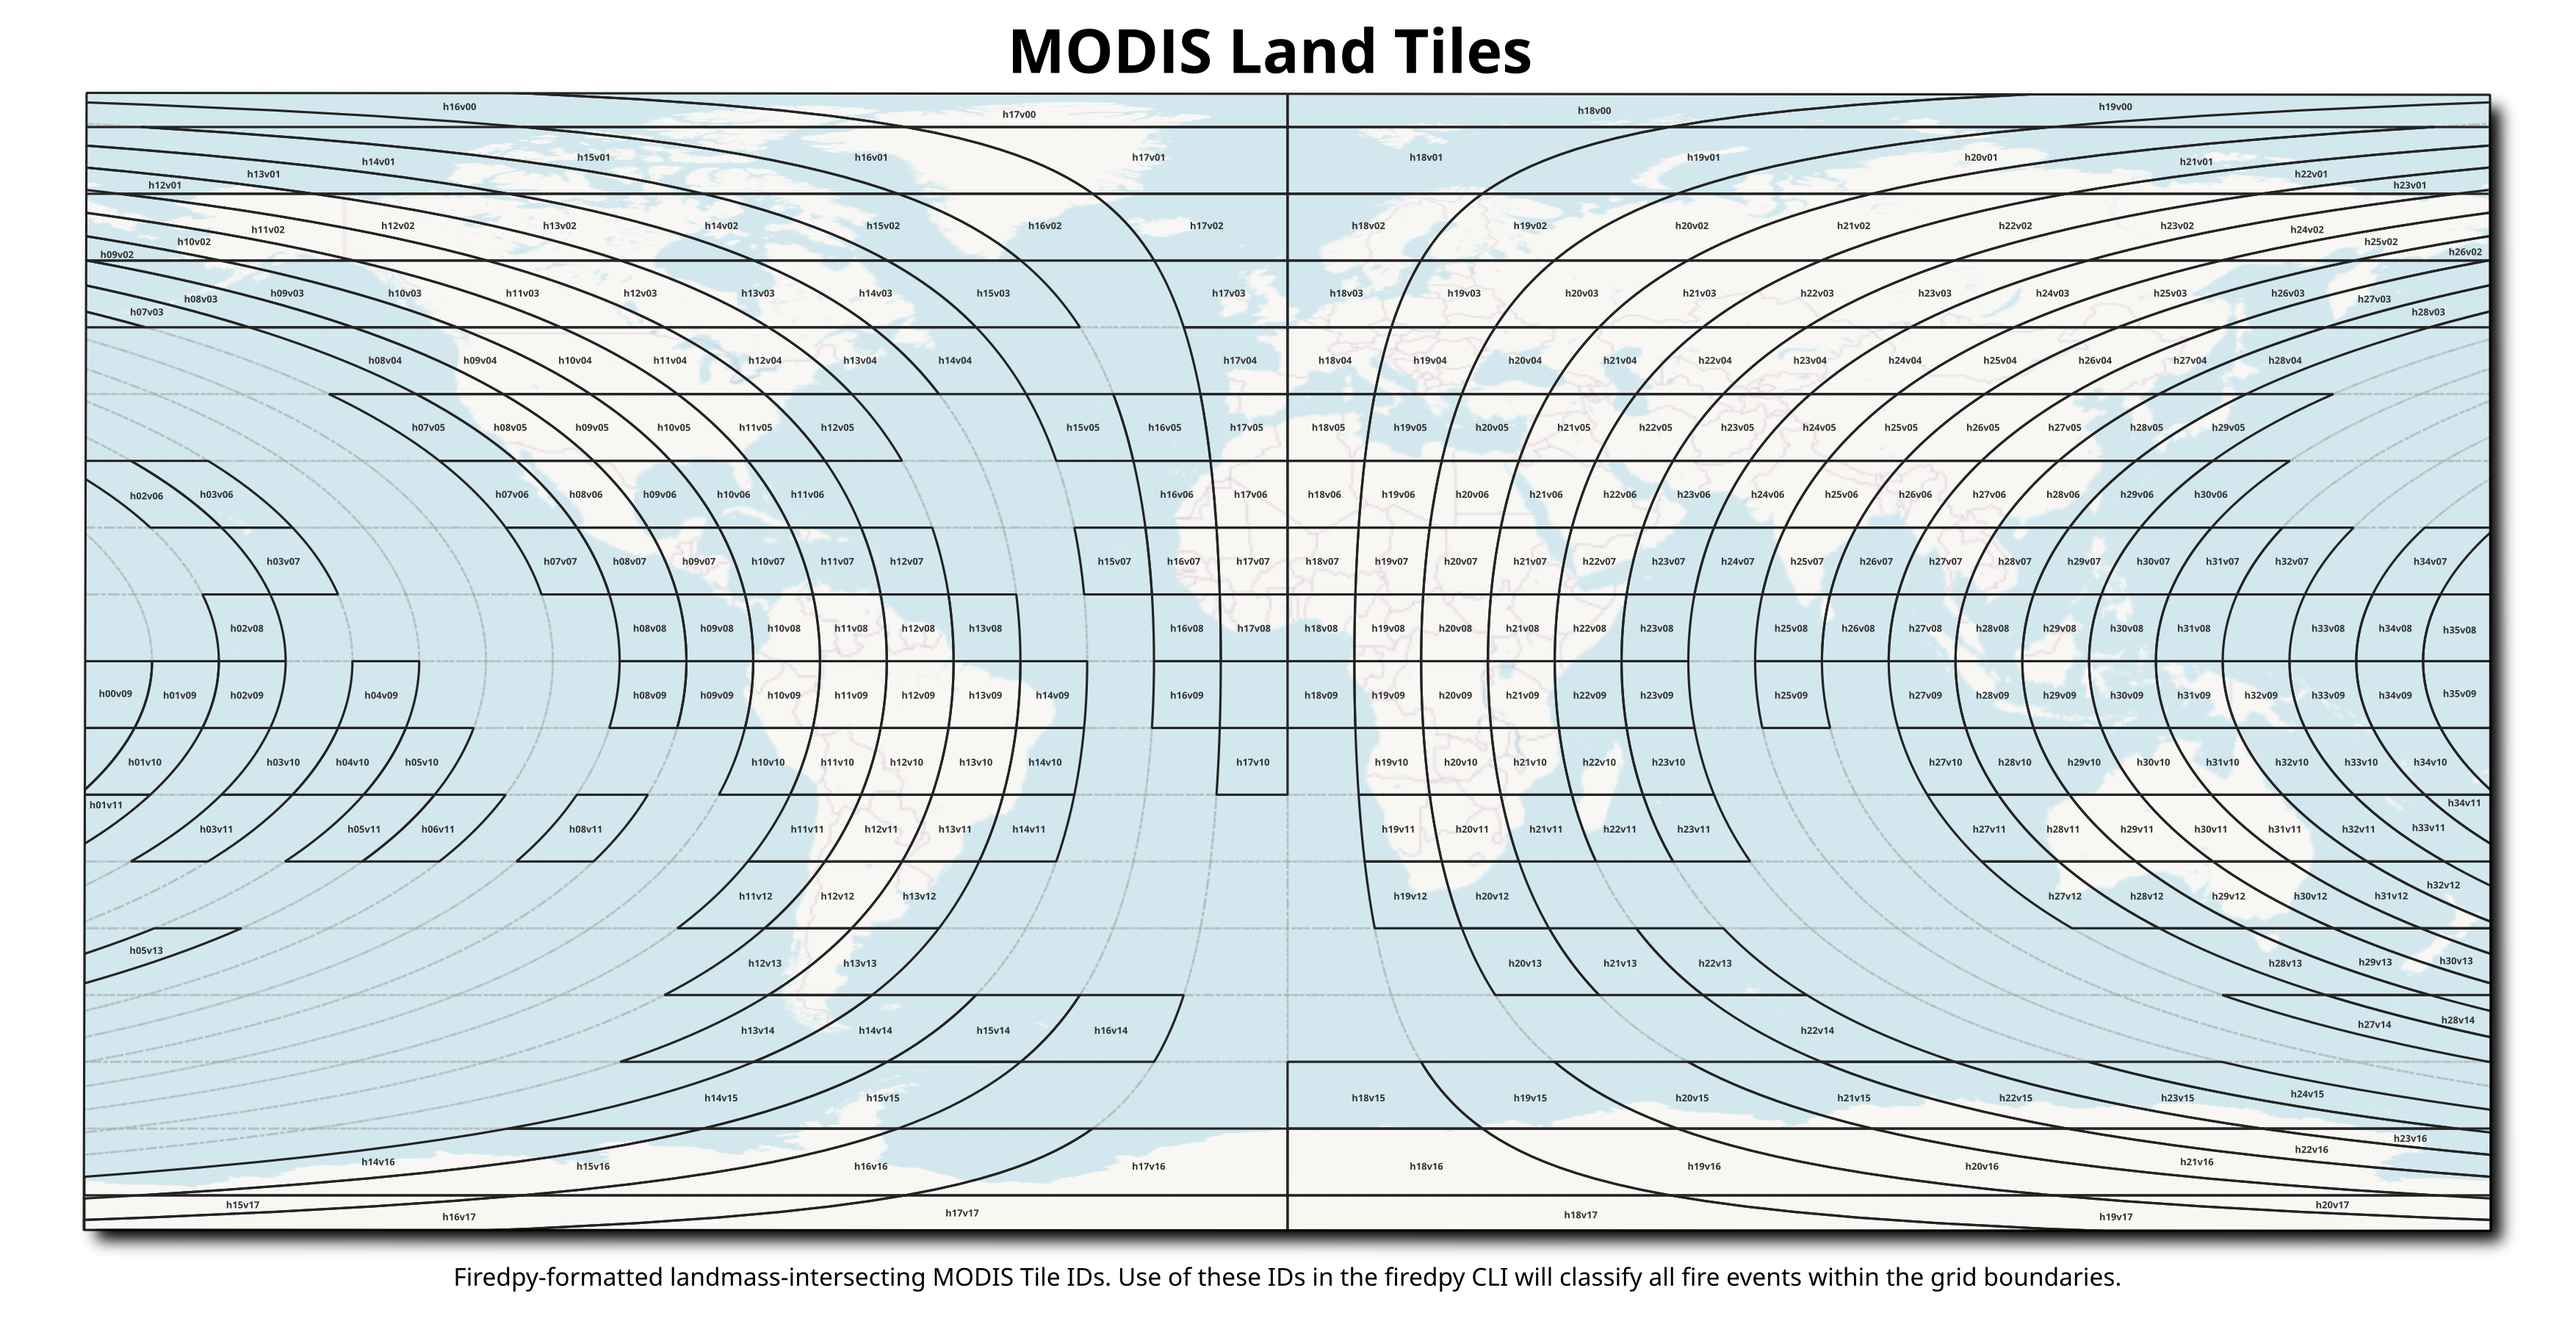
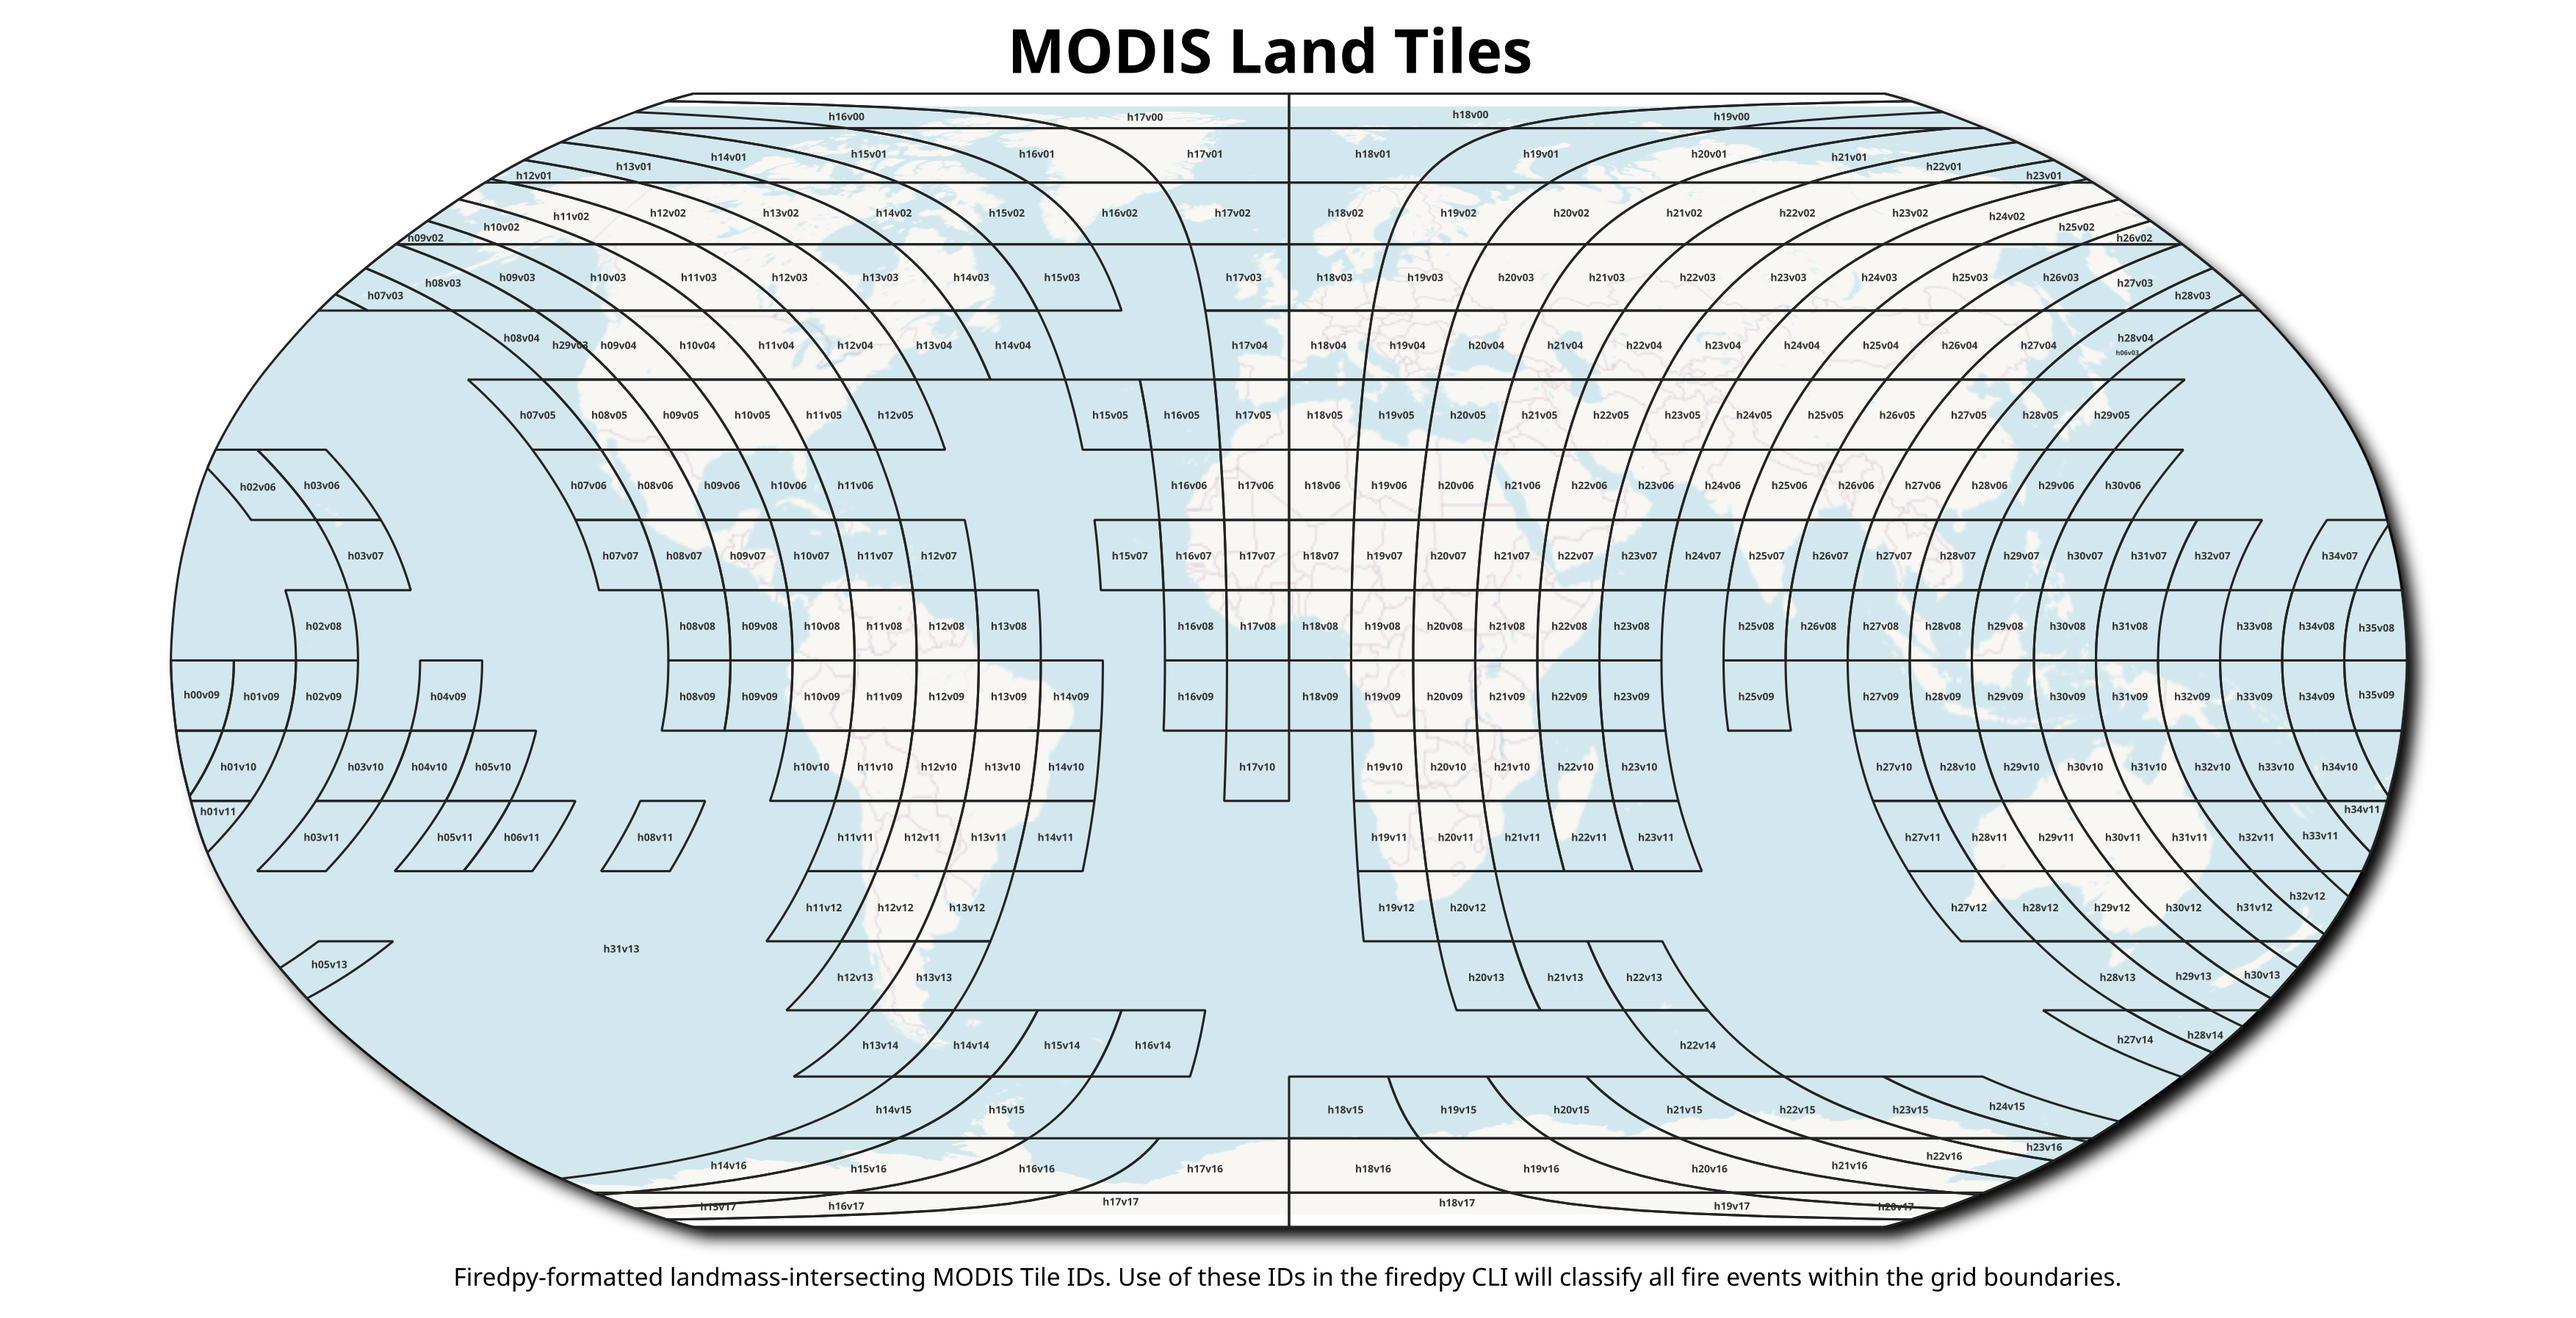
Updated MODIS tile map.

diff --git a/README.md b/README.md
@@ -14,7 +14,12 @@ The algorithm outputs shapefiles of delineated fire events in either .shp or .gp
 *Illustration of the event-level and daily-level output of FIREDpy for the 2013 Rim Fire in California. Figure is from Mahood et al. 2022.*
 
 
-## 
+## The MODIS Sinusioidal Project
+
+You may specify study areas for FIREDpy using individual MODIS tiles. This product uses a Sinusoidal, Lambert Azimuthal Equal-Area projection. There are several spatial resolutions available for this data, but FIREDpy uses the 500m resolution (actual distances depend on location). For more information about this projection, see https://modis-land.gsfc.nasa.gov/MODLAND_grid.html. If you would like to use the MODIS sinusoidal grid IDs to identify FIREDpy study areas, see the visualization this grid below.
+
+
+
 
 ## FIREDpy citations
 
